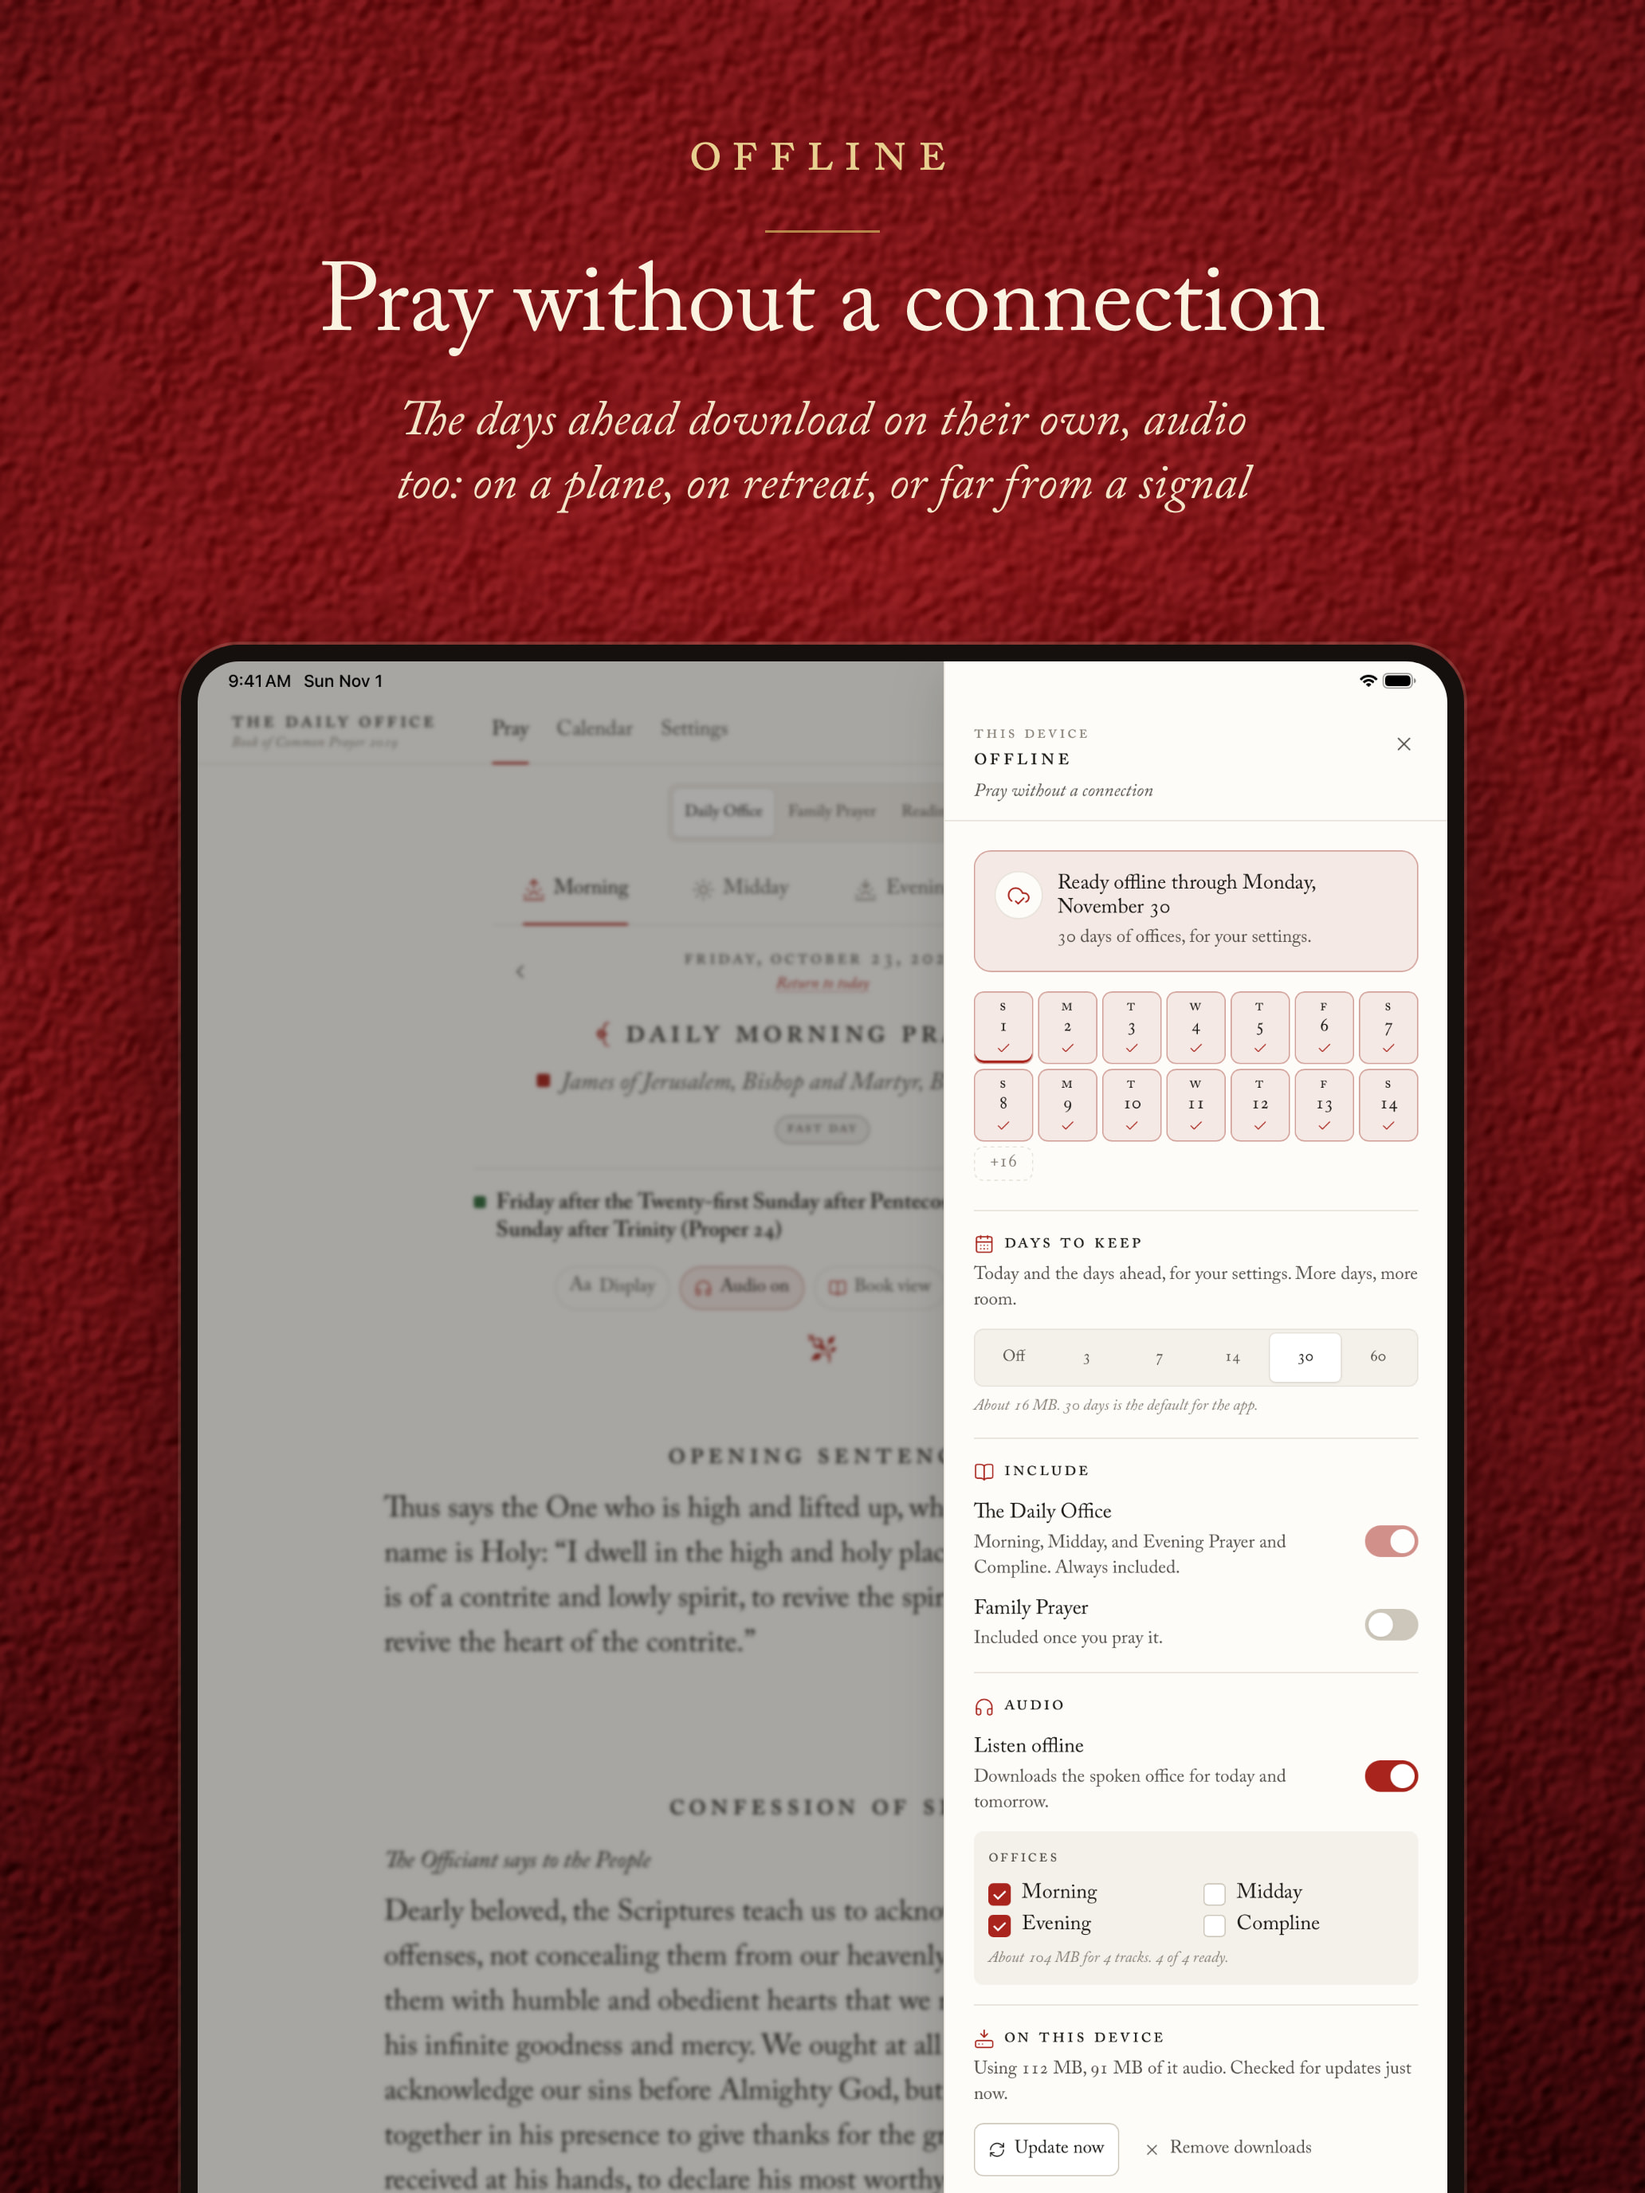
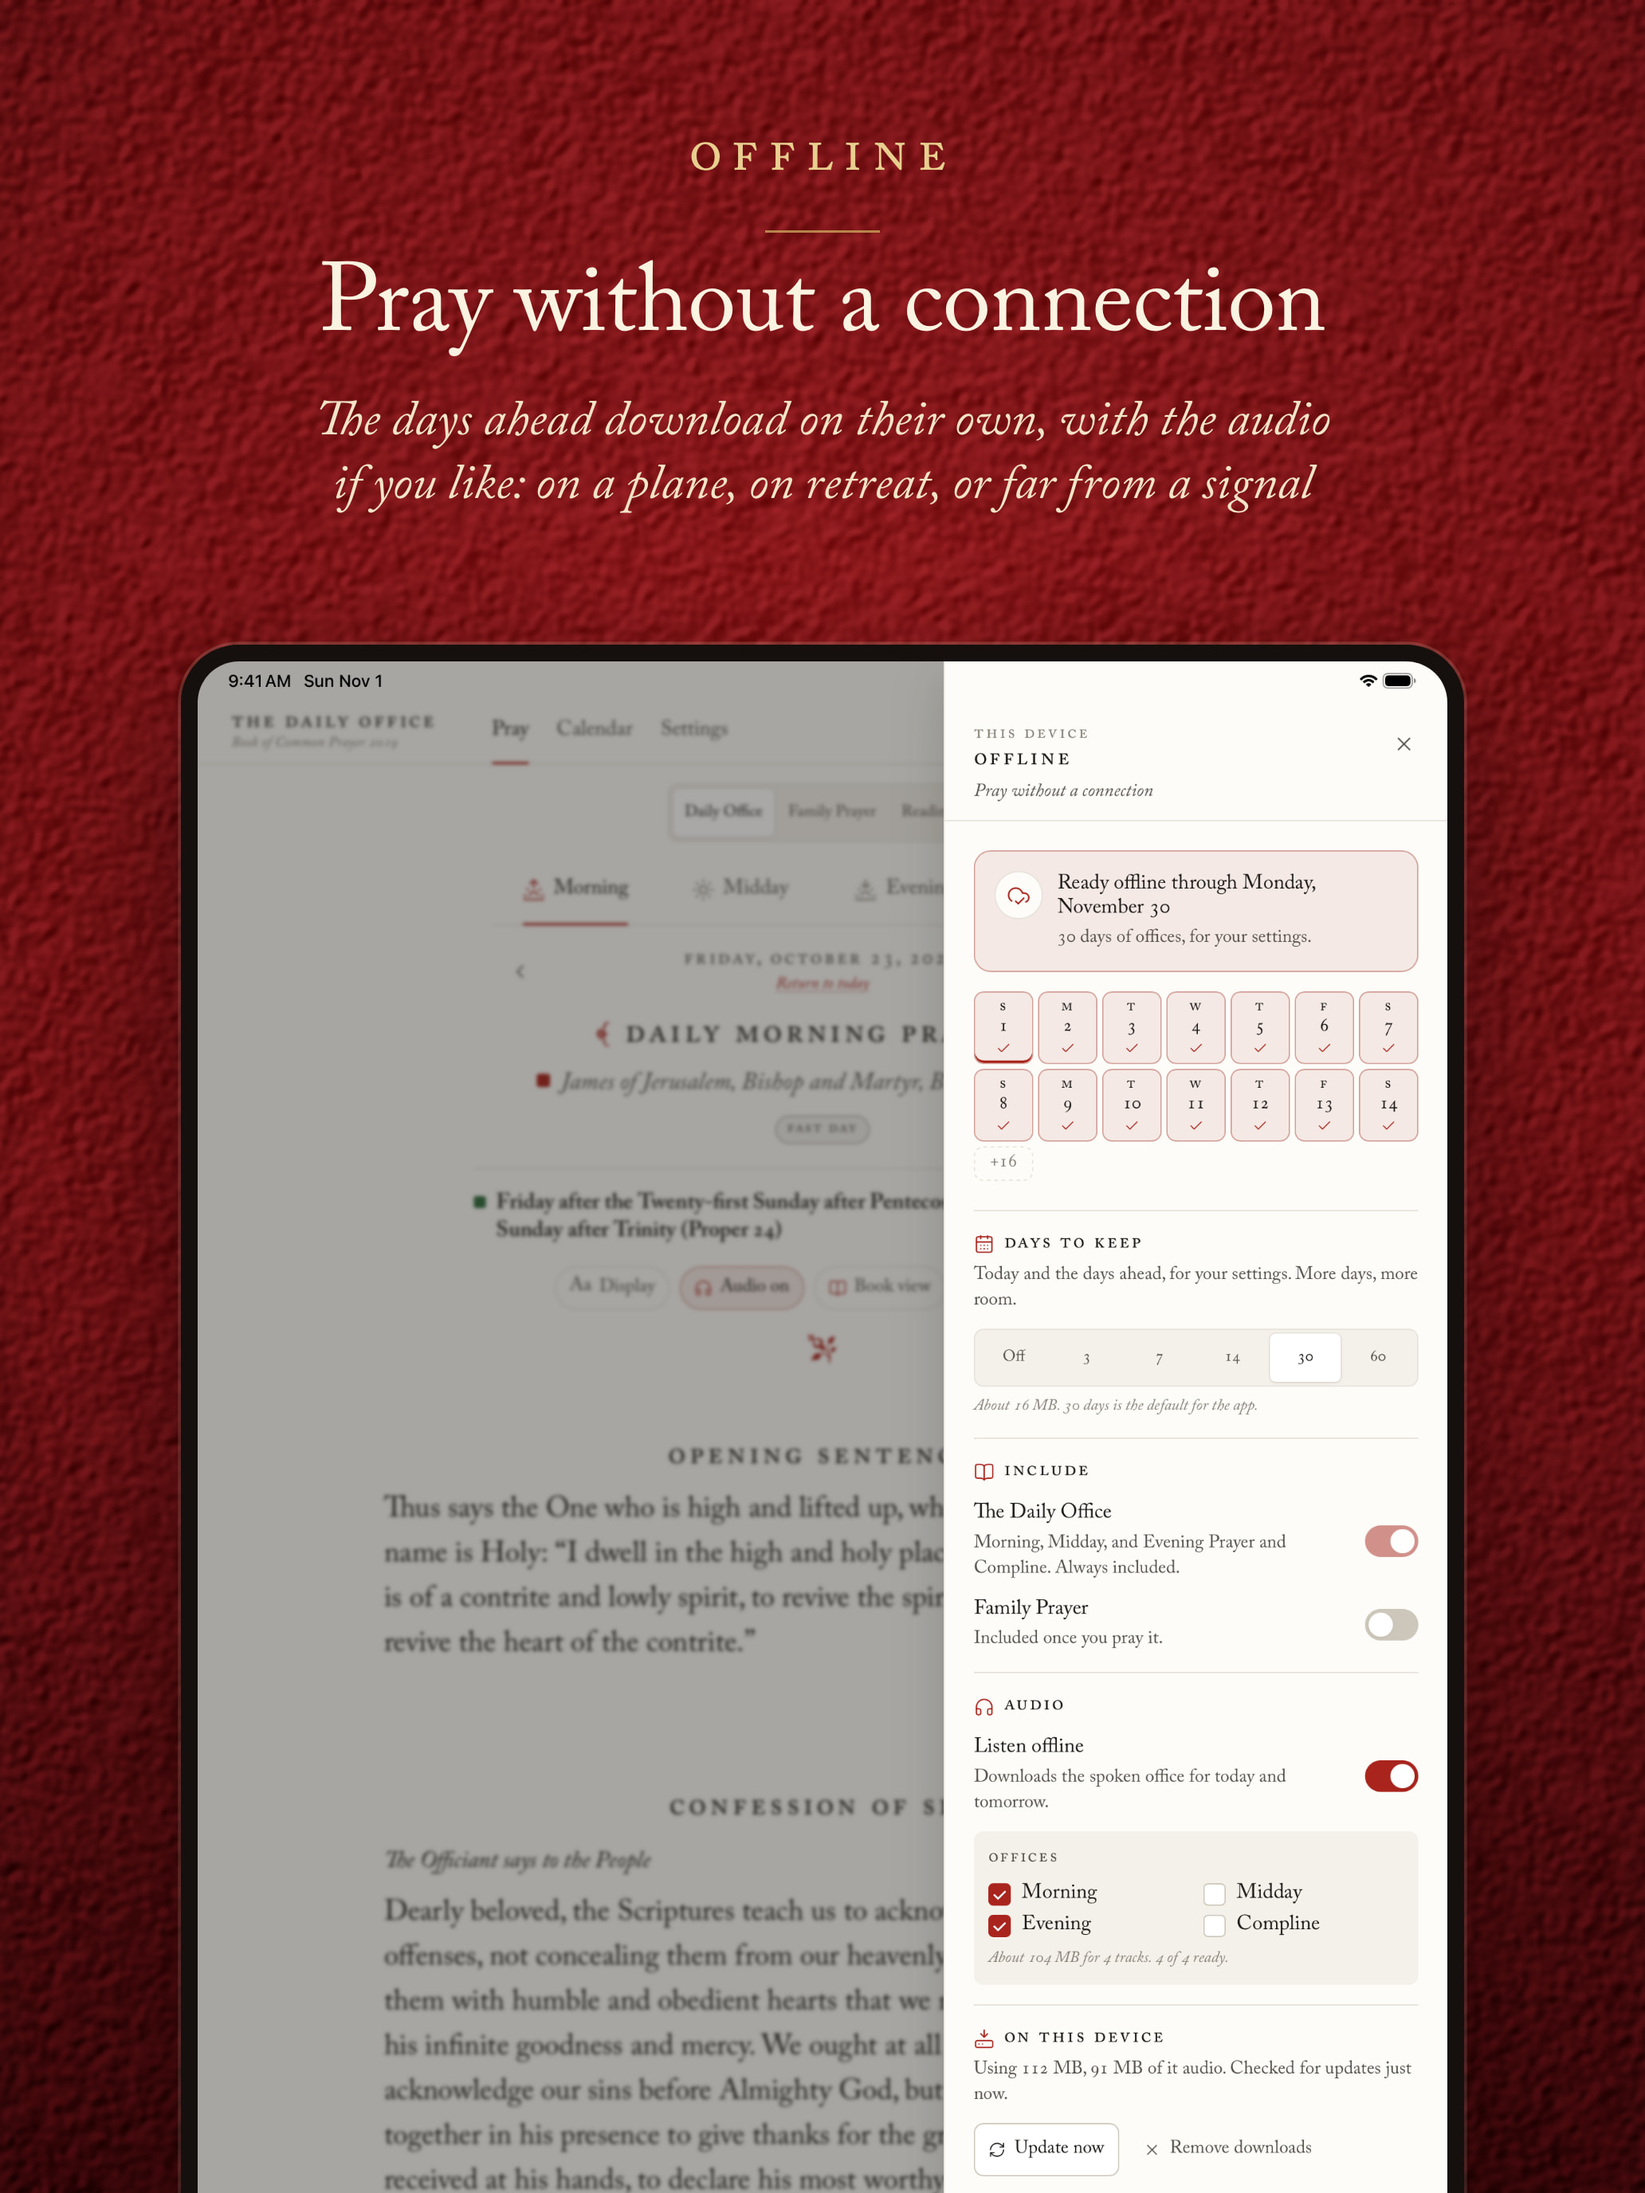
Say plainly what offline keeps, in the store copy
The promotional text and the Offline slide's caption implied the audio
always downloads; it's optional, for today and tomorrow. The privacy line
now says settings and downloads are kept on the device (settings still
travel with requests), the swipe-to-close note says phones, and the
release guide gives the 2.4-second lead-in the videos skip.

Changed region(s): [[0.186, 0.1875, 0.8062, 0.25]]

diff --git a/app/store/RELEASE_GUIDE.md b/app/store/RELEASE_GUIDE.md
@@ -339,7 +339,7 @@ which blanks the screens until a reboot.
 For the videos, pre-roll the office audio to the Confession of Sin (about 0:40)
 and pause, scroll to the top, start
 `xcrun simctl io <device> recordVideo --codec=h264 store/video/raw/iphone.mp4`,
-wait about two seconds, send `store/scripts/remote/tour.js` with
+wait about 2.5 seconds (the videos skip the first 2.4), send `store/scripts/remote/tour.js` with
 `curl localhost:9999/run --data-binary @store/scripts/remote/tour.js`, then stop
 the recording with Ctrl-C. Do the same on the iPad for `ipad.mp4`.
 
